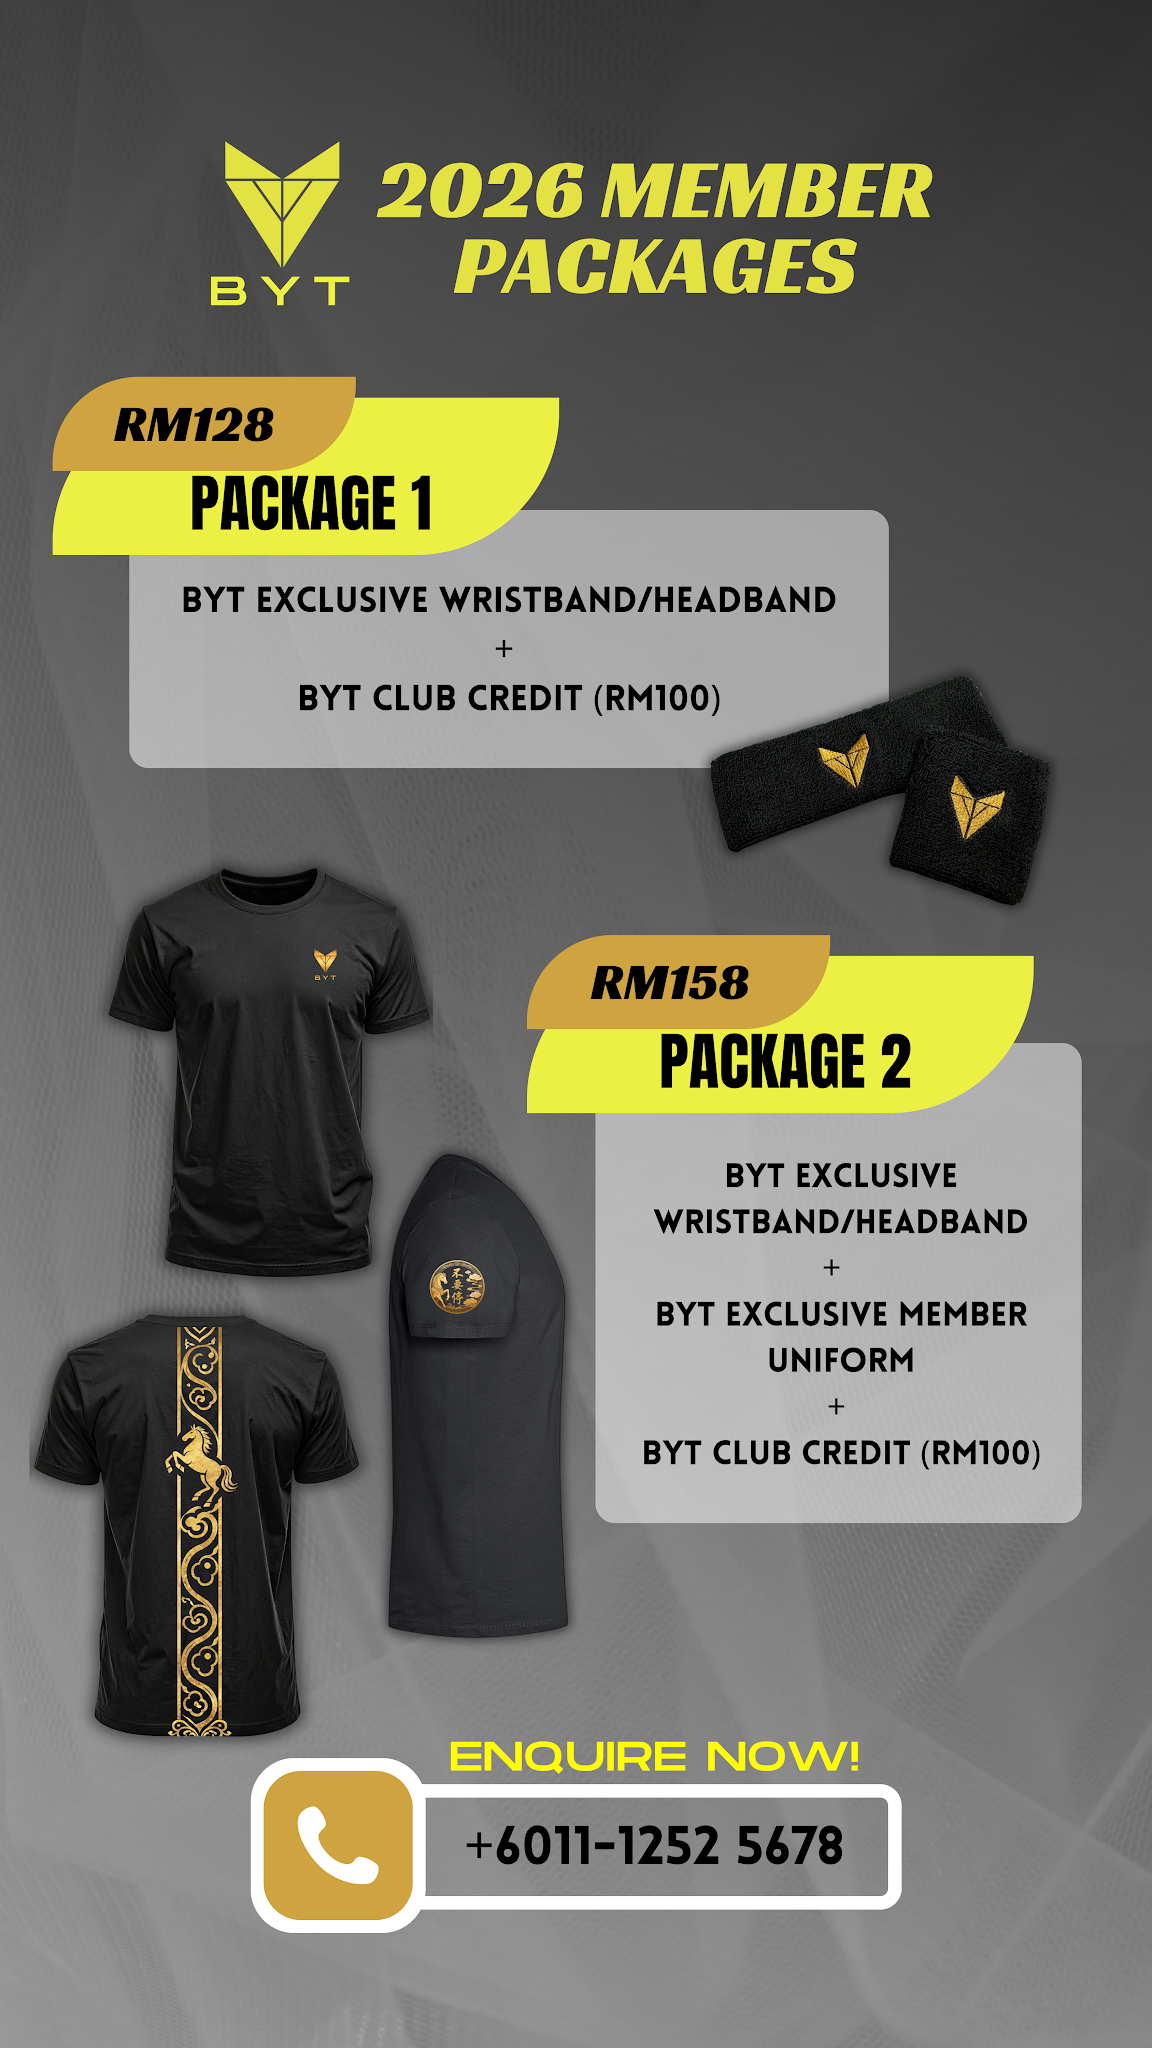
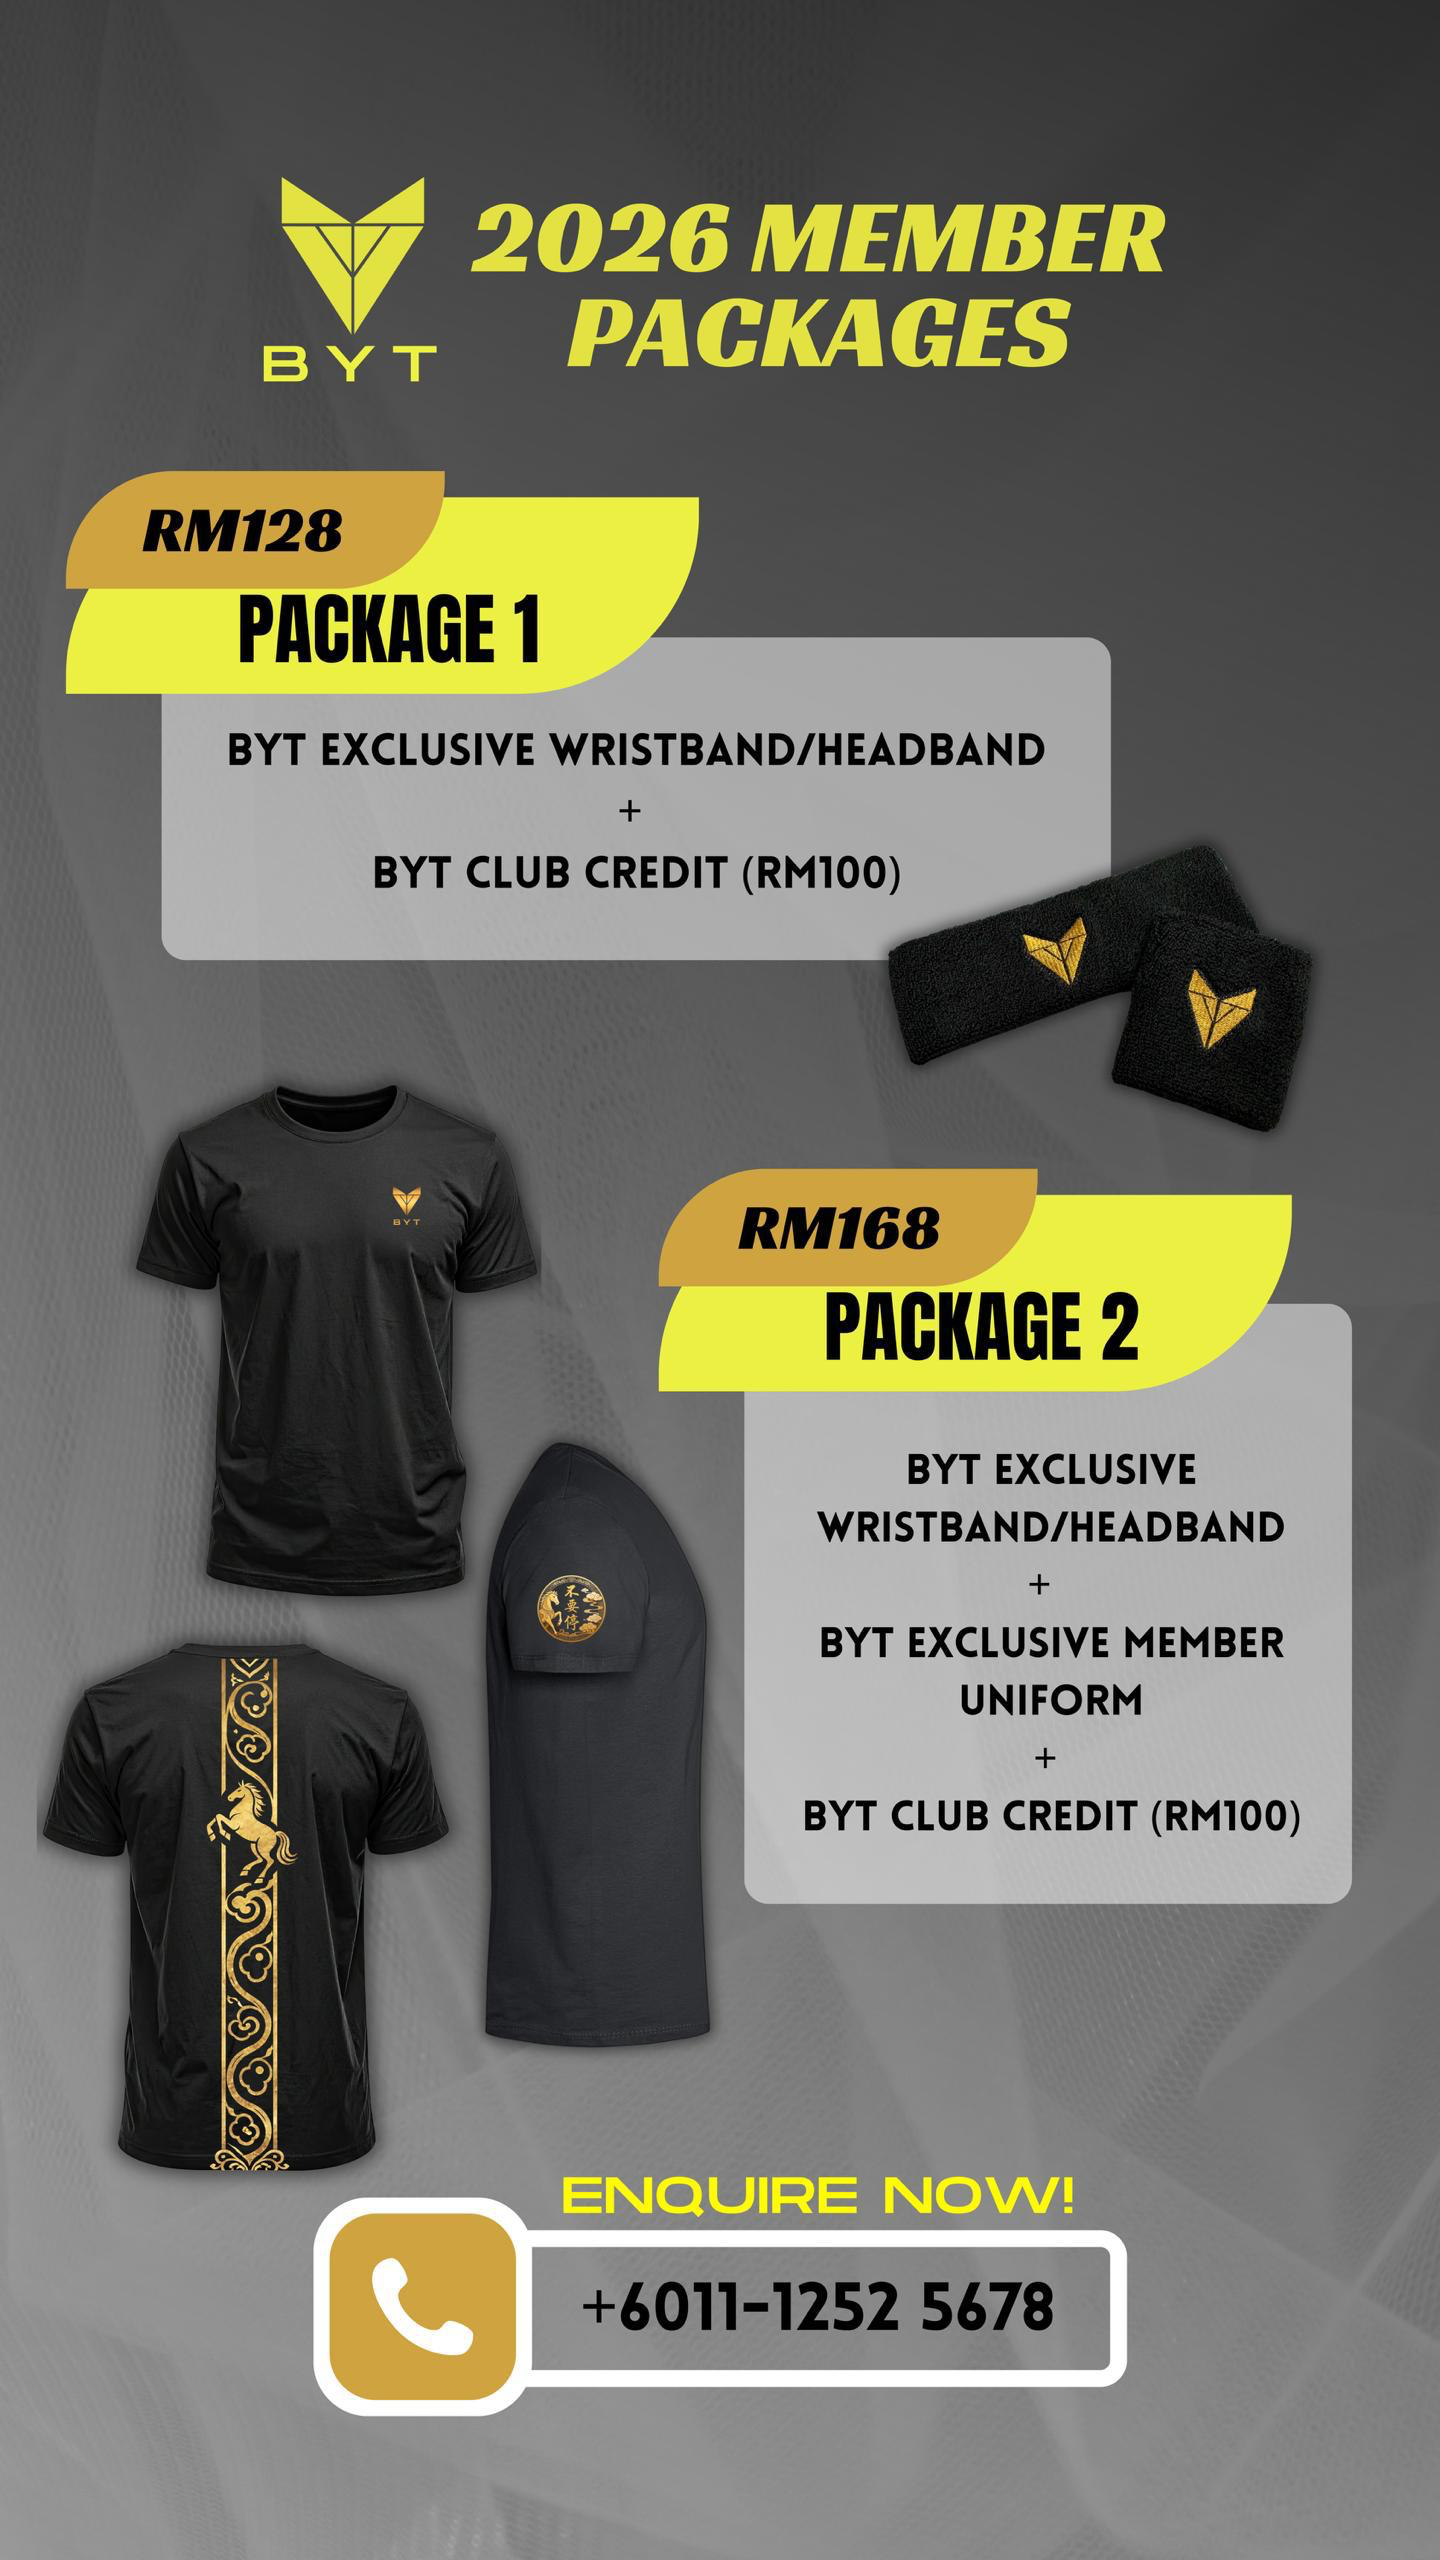
Fix member registration birthday and package price

diff --git a/src/App.jsx b/src/App.jsx
@@ -45,9 +45,9 @@ const MEMBER_PACKAGES = {
   extreme: {
     packageType: "extreme",
     packageName: "BYT Extreme Member",
-    packagePrice: 158,
+    packagePrice: 168,
     packageCredit: 100,
-    registrationFee: 58,
+    registrationFee: 68,
   },
 };
 const GIFT_CHOICES = ["wristband", "headband"];
@@ -528,6 +528,38 @@ function getDateInputValue(date = new Date()) {
     String(date.getMonth() + 1).padStart(2, "0"),
     String(date.getDate()).padStart(2, "0"),
   ].join("-");
+}
+
+function getLocalDateFromDateInputValue(value) {
+  if (!value) {
+    return null;
+  }
+
+  if (value instanceof Date) {
+    return Number.isNaN(value.getTime()) ? null : value;
+  }
+
+  const dateText = String(value).trim();
+  const inputDateMatch = dateText.match(/^(\d{4})-(\d{2})-(\d{2})$/);
+
+  if (inputDateMatch) {
+    const [, year, month, day] = inputDateMatch;
+    const parsedInputDate = new Date(
+      Number(year),
+      Number(month) - 1,
+      Number(day)
+    );
+
+    return Number.isNaN(parsedInputDate.getTime()) ? null : parsedInputDate;
+  }
+
+  return safeParseDate(dateText);
+}
+
+function getDateInputStringFromPickerValue(value) {
+  const parsedDate = getLocalDateFromDateInputValue(value);
+
+  return parsedDate ? getDateInputValue(parsedDate) : "";
 }
 
 function downloadCsv(filename, csvContent) {
@@ -7060,10 +7092,17 @@ function App() {
                     className="registration-date-input"
                     label="Birthday"
                     placeholder="Select birthday"
-                    value={registerBirthday || null}
-                    maxDate={new Date().toISOString().split("T")[0]}
+                    value={getLocalDateFromDateInputValue(registerBirthday)}
+                    minDate={new Date(1900, 0, 1)}
+                    maxDate={new Date()}
+                    defaultDate={
+                      getLocalDateFromDateInputValue(registerBirthday) ||
+                      new Date(2000, 0, 1)
+                    }
                     valueFormat="MMM D, YYYY"
-                    onChange={(value) => setRegisterBirthday(value || "")}
+                    onChange={(value) =>
+                      setRegisterBirthday(getDateInputStringFromPickerValue(value))
+                    }
                   />
 
                   <TextInput
